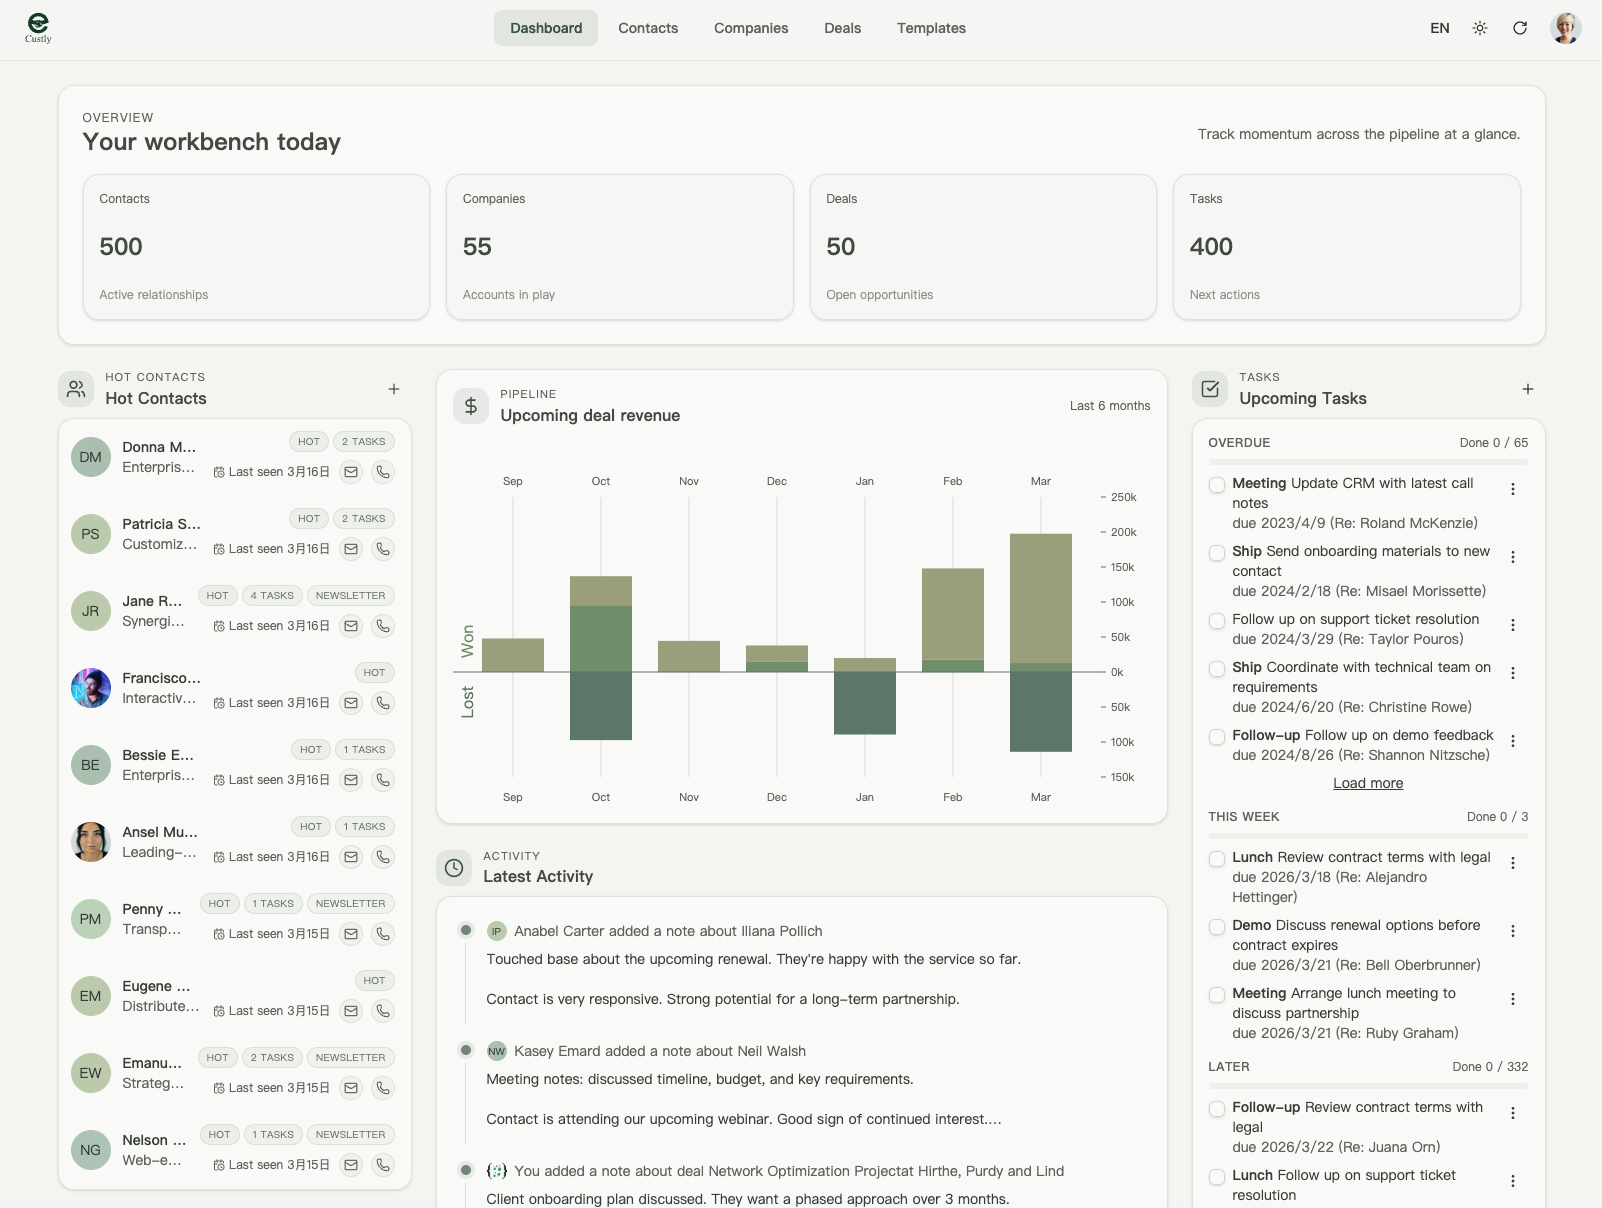
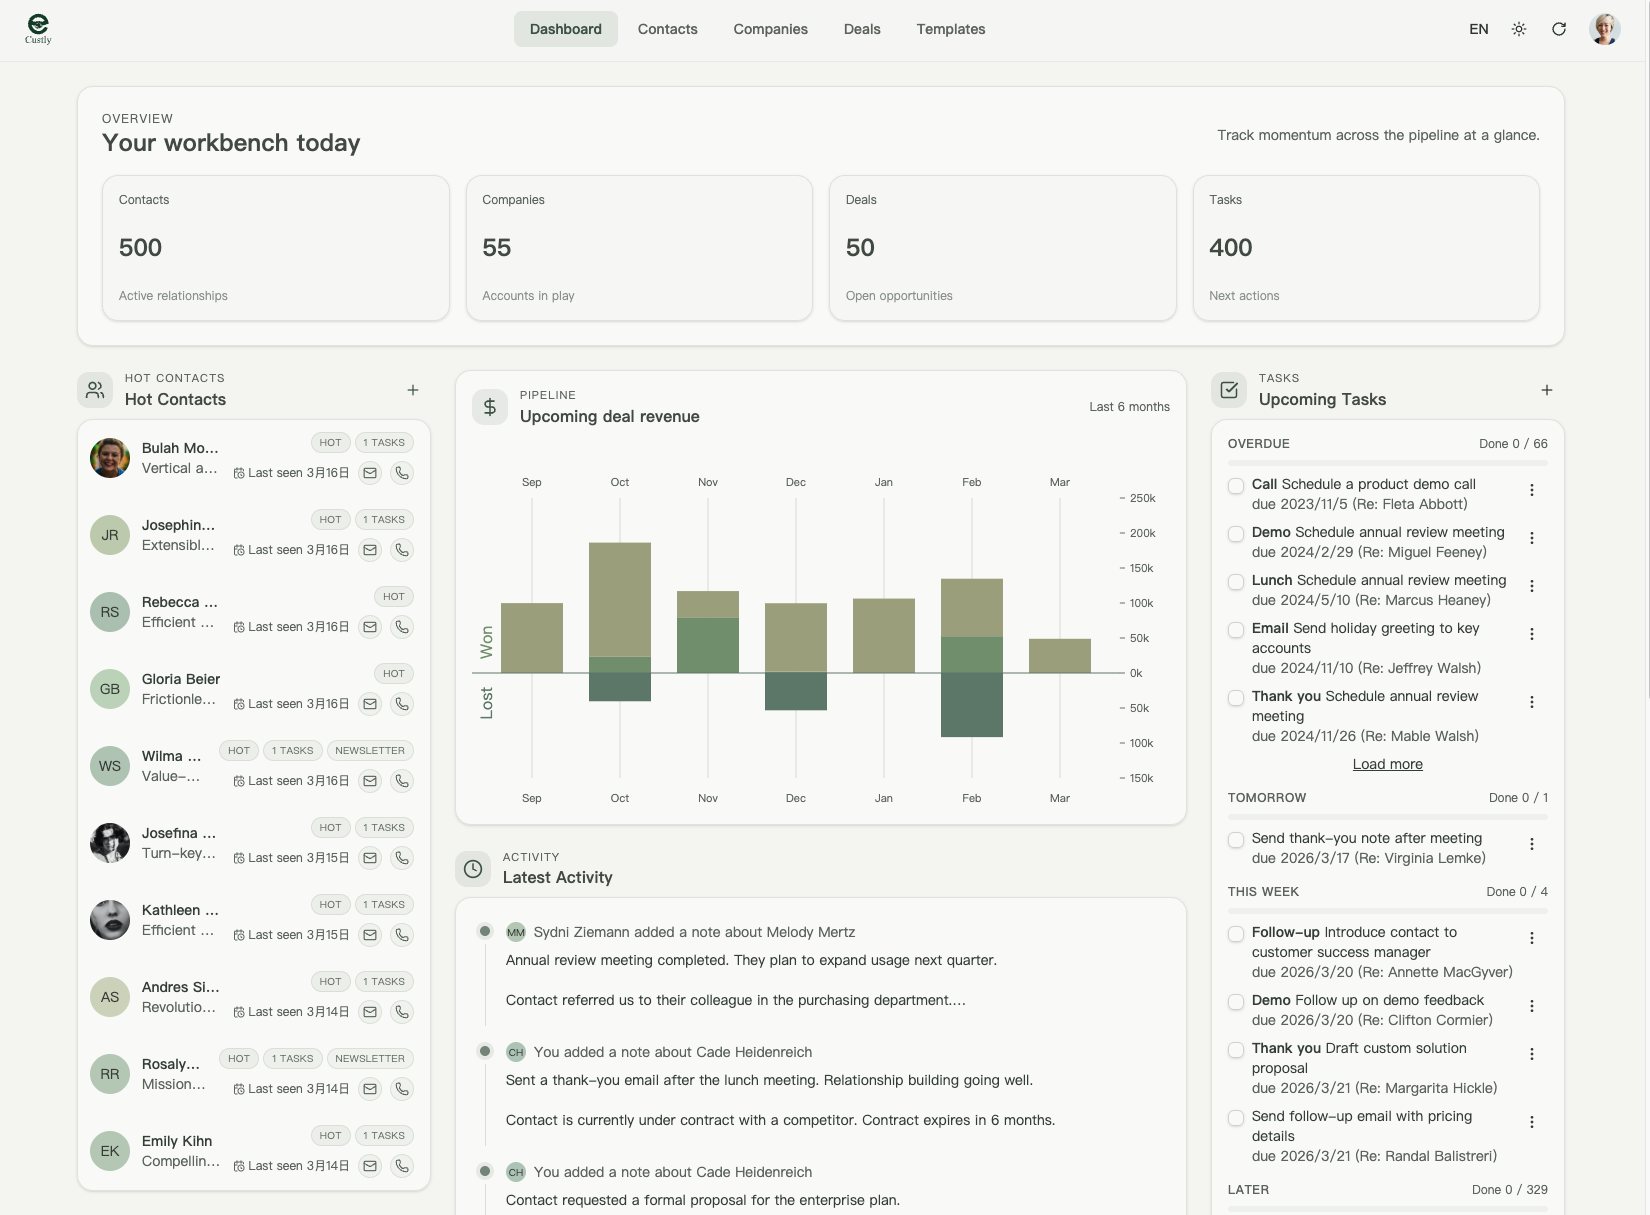
update: replace Custly screenshots with 5 new ones

diff --git a/src/app/products/page.tsx b/src/app/products/page.tsx
@@ -34,6 +34,8 @@ export default function ProductsPage() {
         '/img/custlycrm/custly-screenshot-1.png',
         '/img/custlycrm/custly-screenshot-2.png',
         '/img/custlycrm/custly-screenshot-3.png',
+        '/img/custlycrm/custly-screenshot-4.png',
+        '/img/custlycrm/custly-screenshot-5.png',
       ],
       screenshotType: 'desktop' as const,
     },
